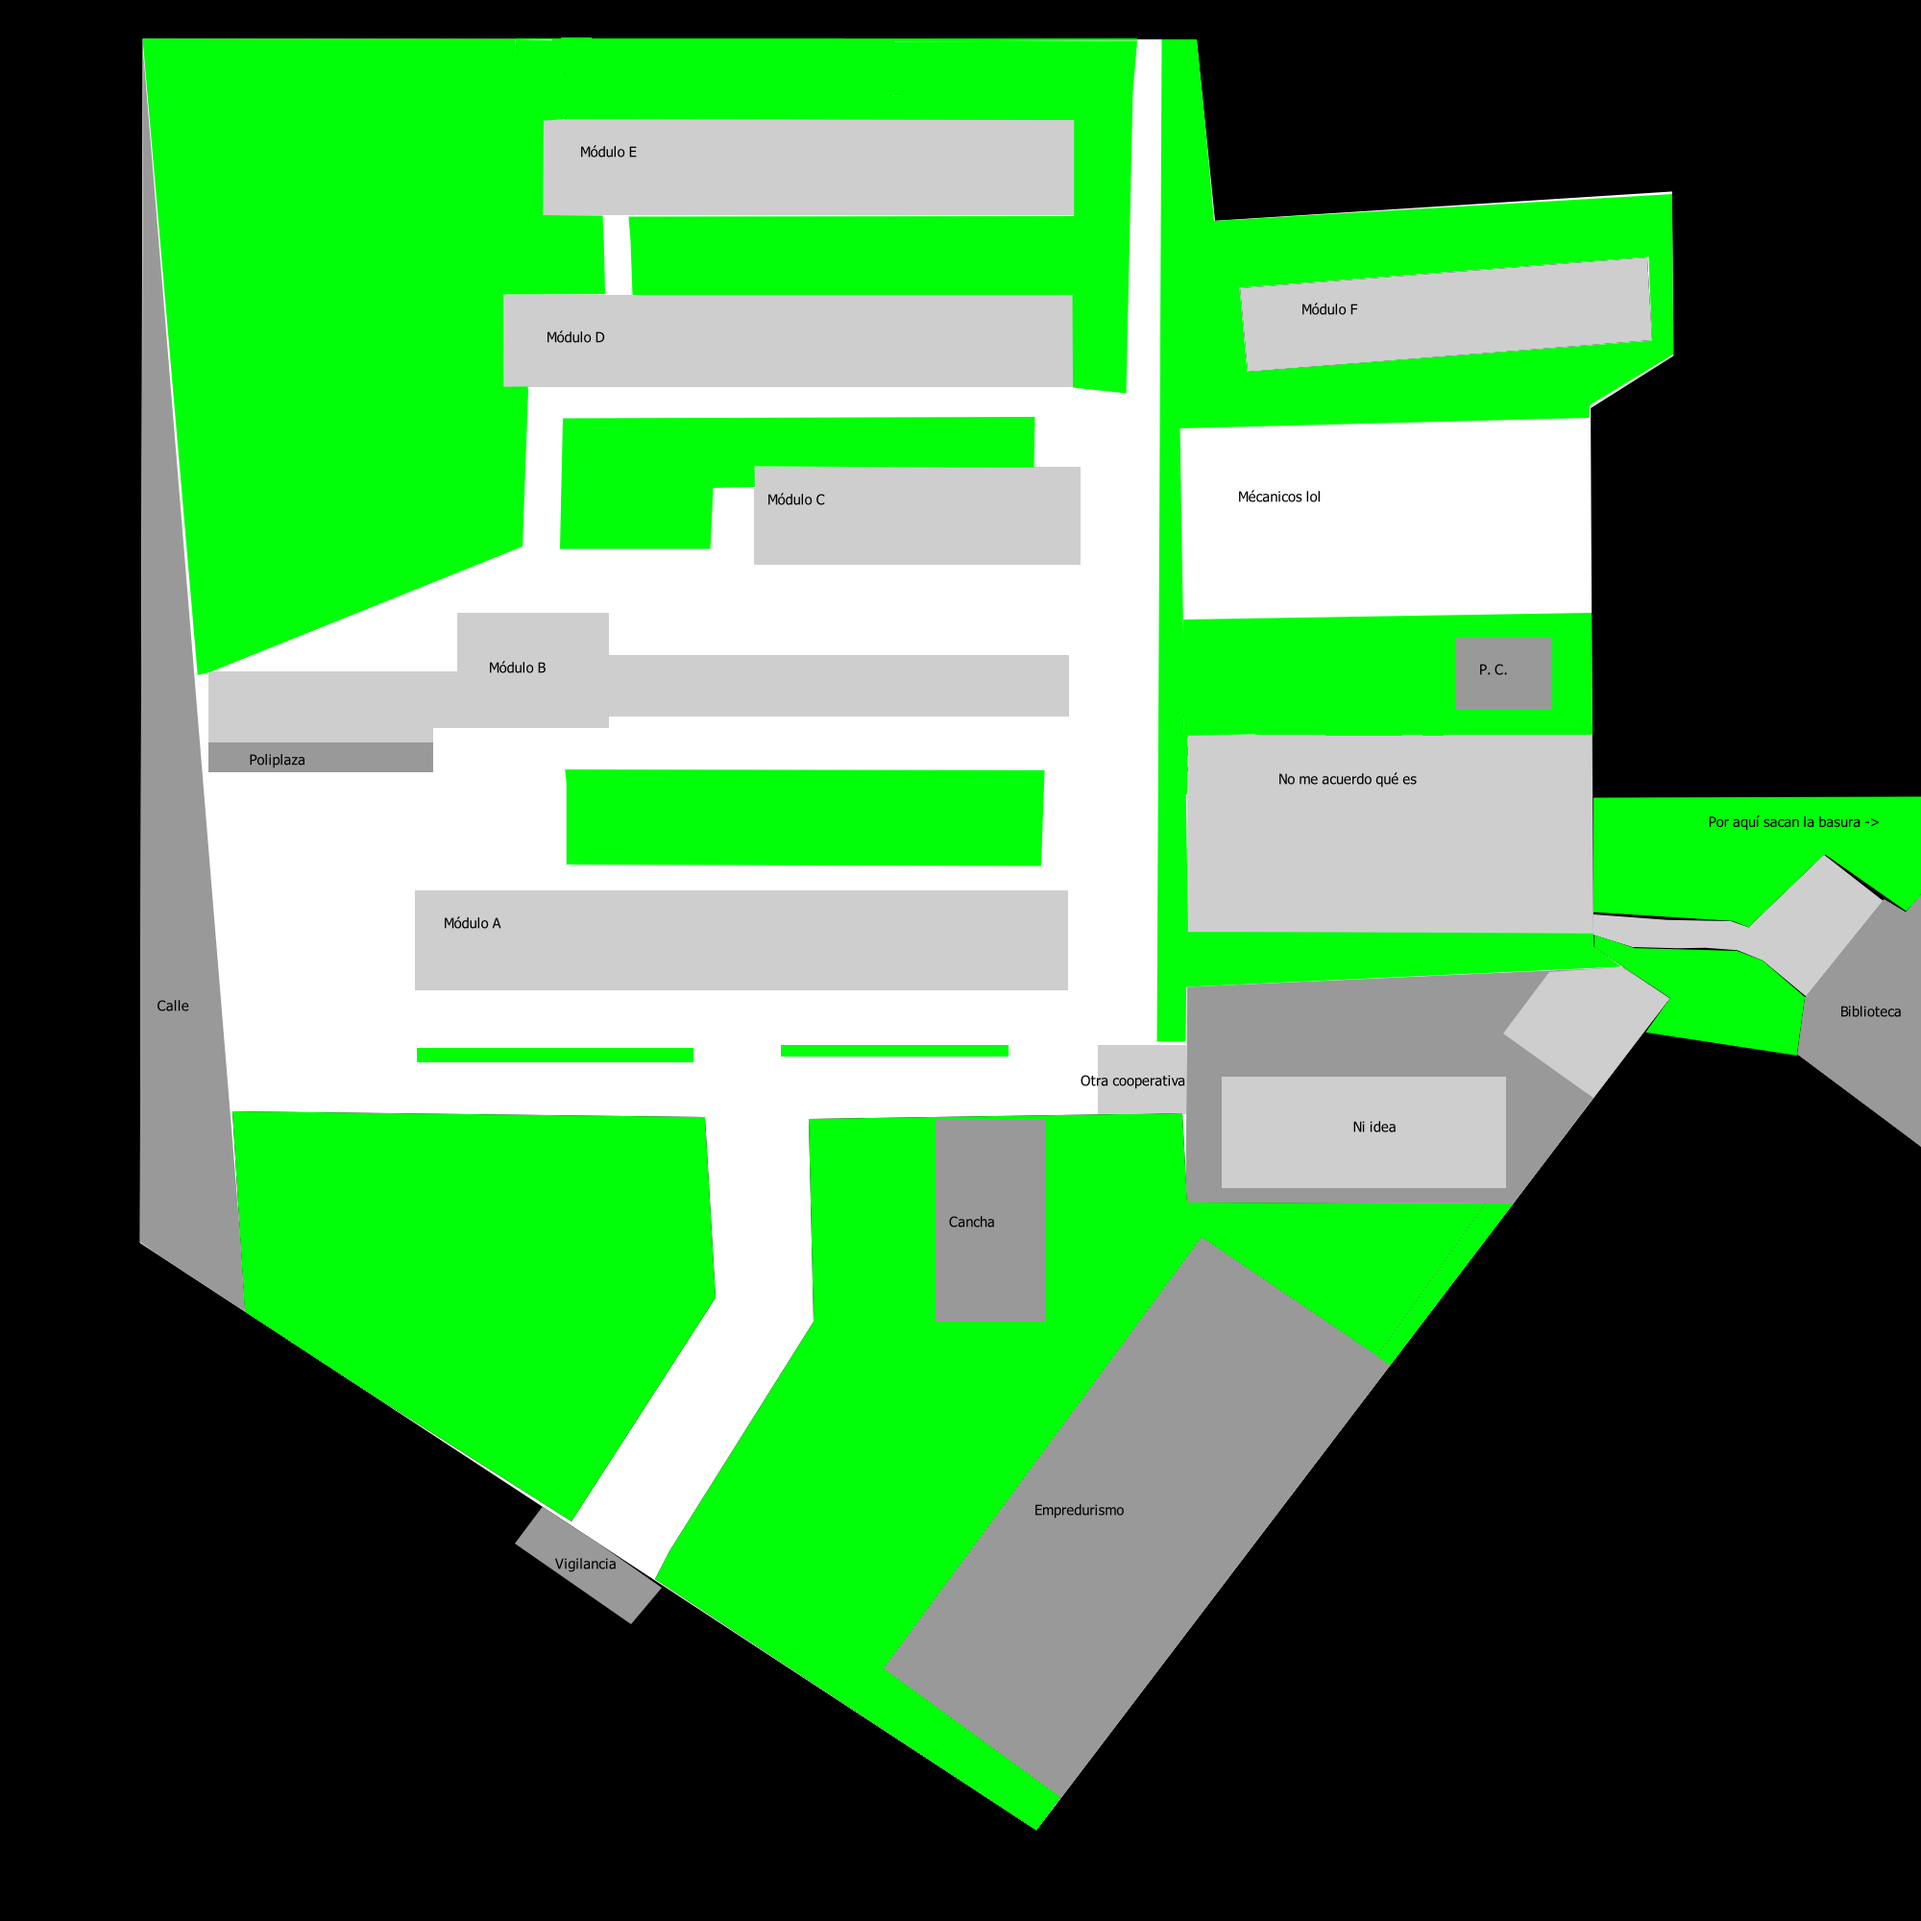
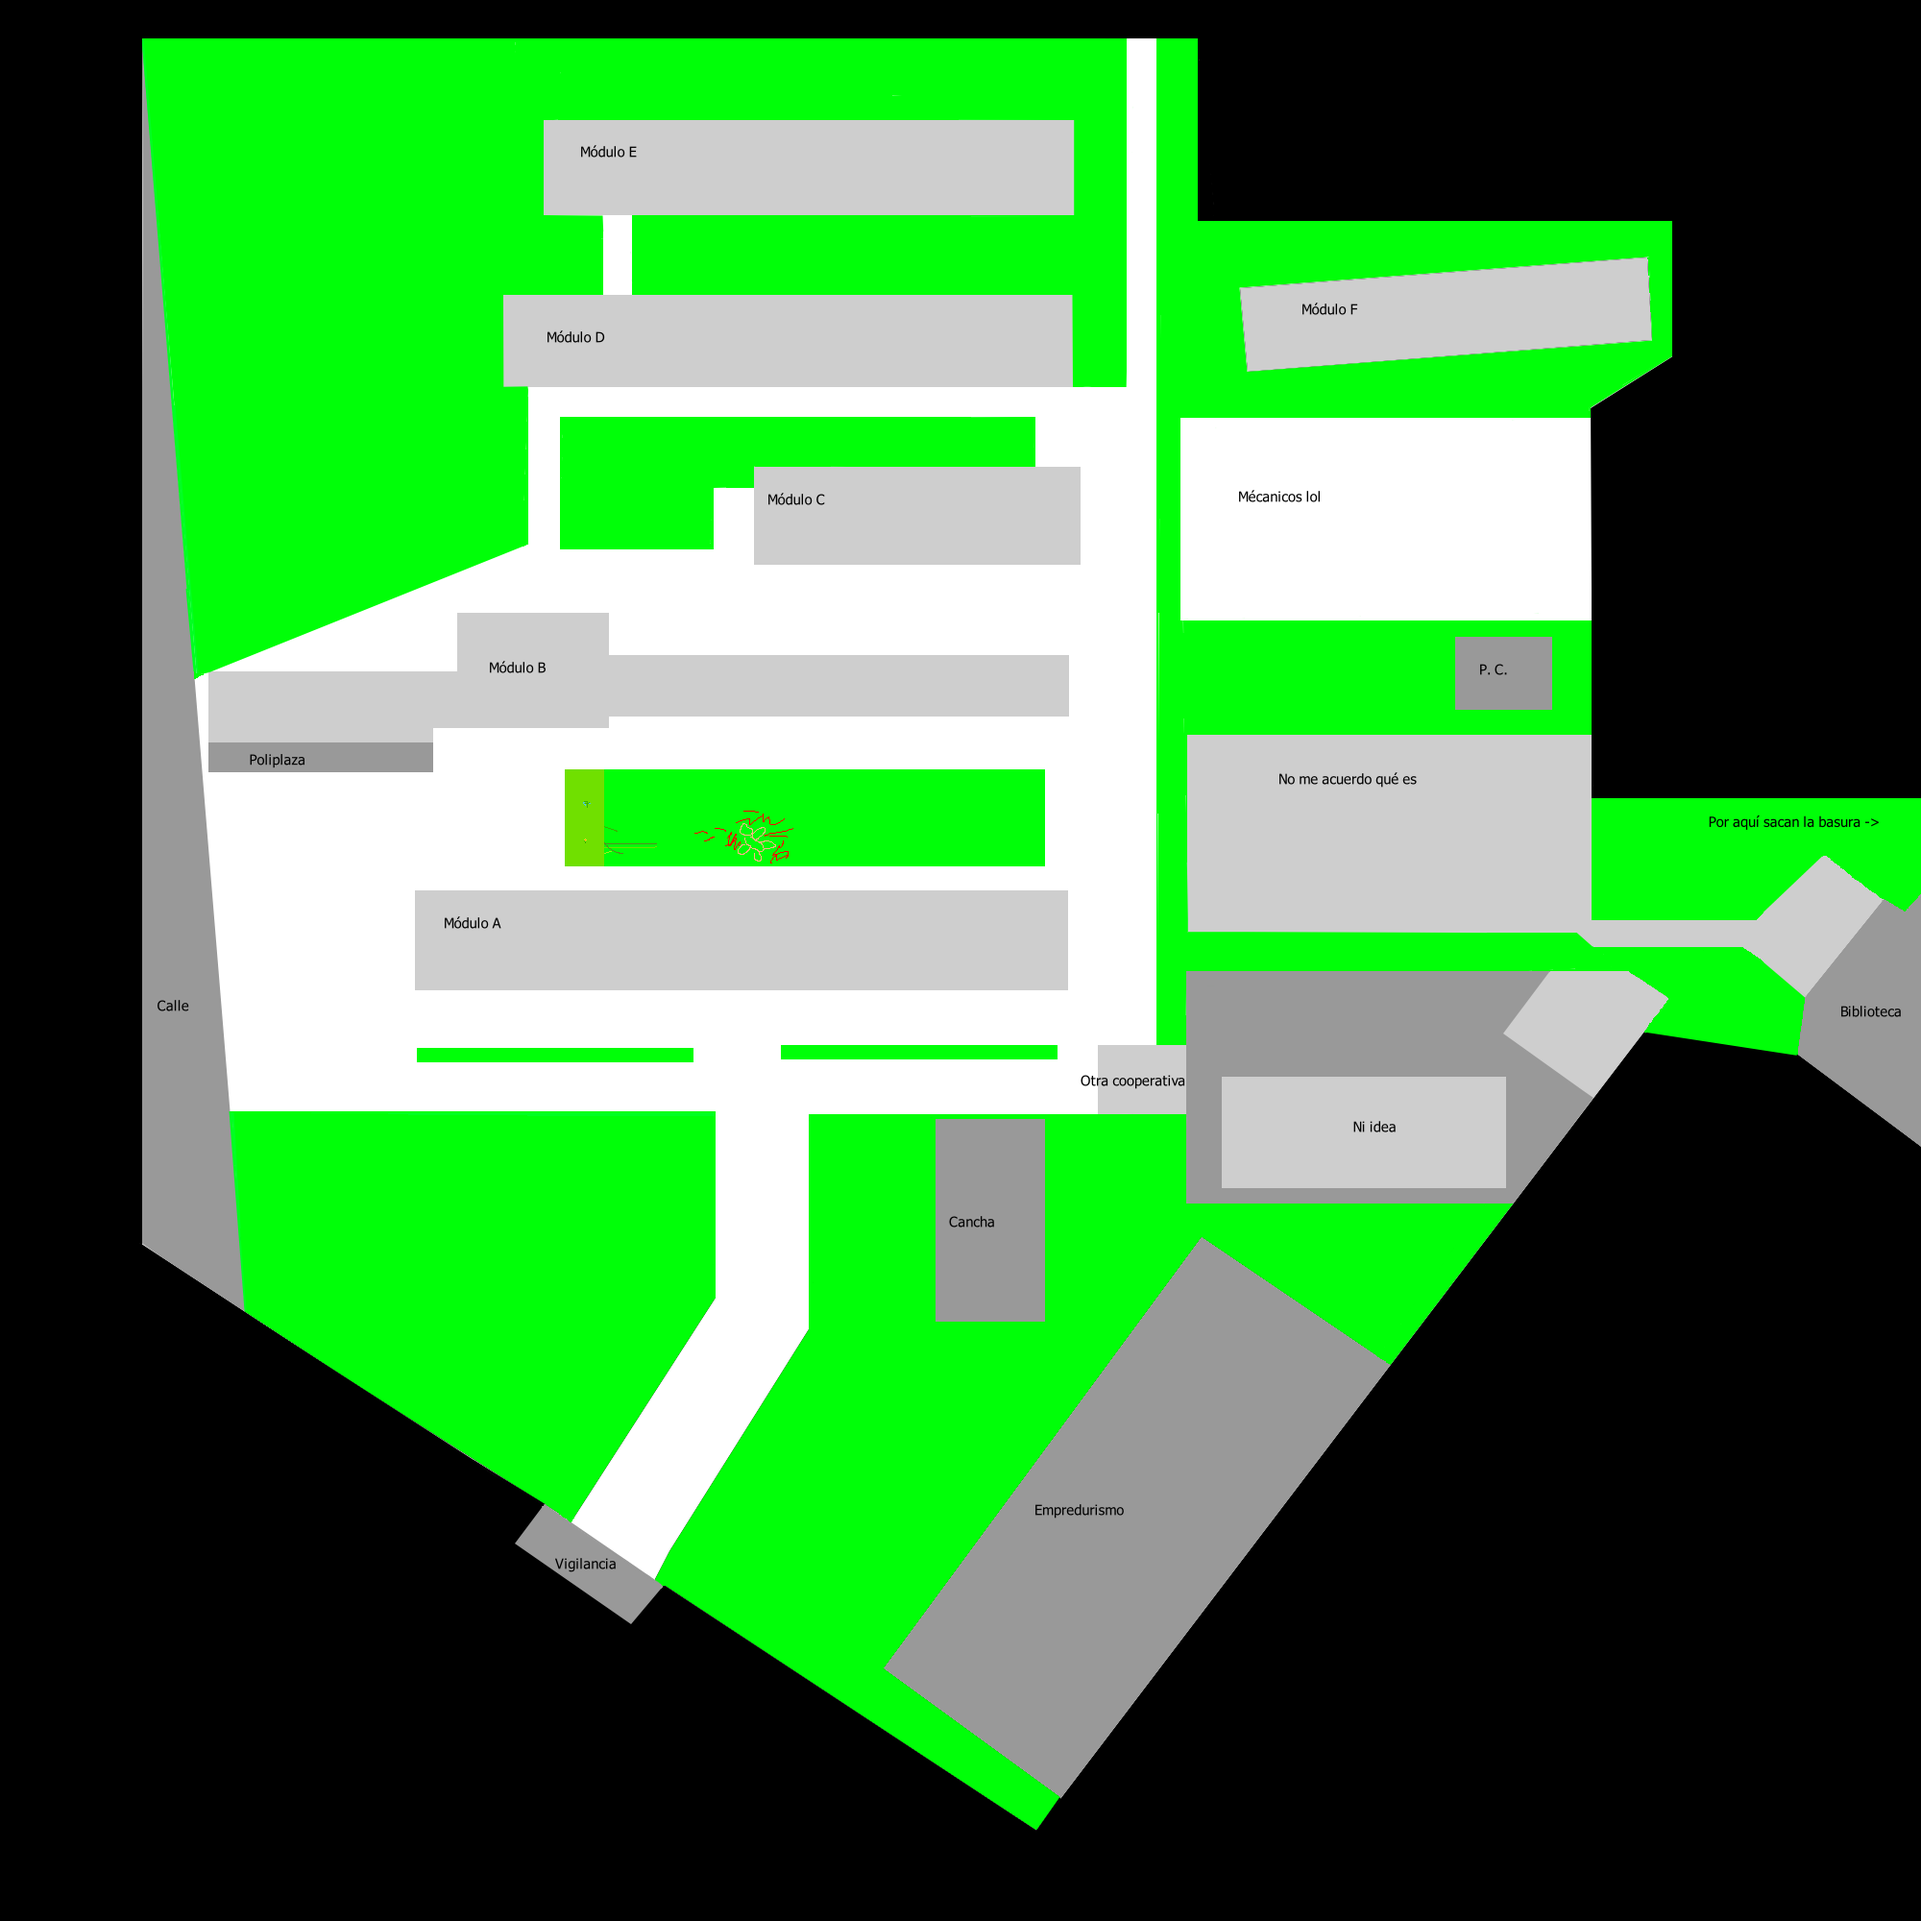
update mapa
-eliminado un monton de lineas raras
-Algunas cosas se volvieron rectangulos
-Hay un cadaver en el patio
-Estaba probando verdes
-Elimine un comentario pero no me acuerdo por qué

diff --git a/scr/escenas/combate.js b/scr/escenas/combate.js
@@ -506,8 +506,7 @@ export default class combate extends Phaser.Scene {
             playerStats.def = this.registry.values.playerStats.def;
             console.log('El nivel del jugador es: ' + this.registry.values.playerStats.lvl);
             if (this.registry.values.playerStats.lvl == 1) {
-                this.enemyLoader = this.cache.json.get('enemigo' + Phaser.Math.Between(1, 2));/*nosotros tendremos que decir "a, los enemigos desde 
-            x a y serán para tal nivel de jugador" y los pondremos dentro del between. voy a testar con el lvl1*/
+                this.enemyLoader = this.cache.json.get('enemigo' + Phaser.Math.Between(1, 2));
                 enemyStats.nombre = this.enemyLoader.nombre;
                 enemyStats.maxhp = this.enemyLoader.hp[Phaser.Math.Between(0, this.enemyLoader.hp.length - 1)];
                 enemyStats.hp = enemyStats.maxhp;
